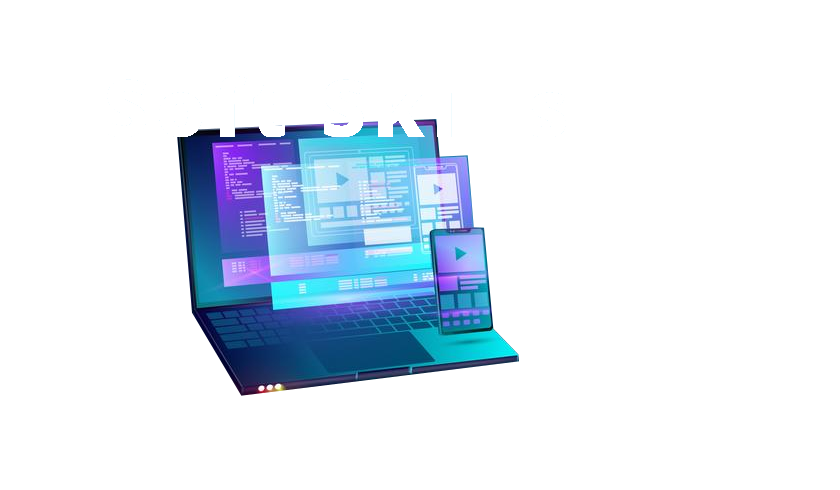
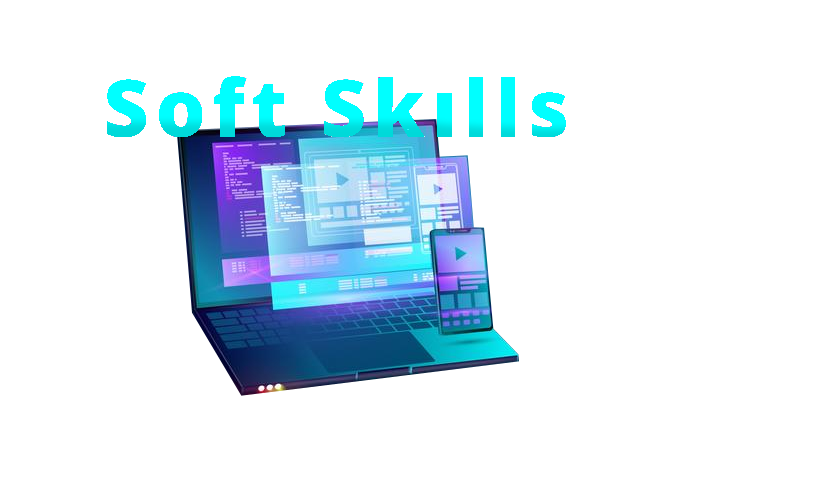
2.0

Changed region(s): [[0.3714, 0.1531, 0.681, 0.2755], [0.1238, 0.1531, 0.3405, 0.2755]]

diff --git a/index.html b/index.html
@@ -24,7 +24,8 @@
         <nav class="navbar navbar-expand-md navbar-light fixed-top navbar-transparente">
             <div class="container container-nav">
                 <a href="index.html" class="navbar-brand">
-                   <img src="img/MichaelLogo.png" width="200">
+                <i class="fa-solid fa-laptop-code color"></i> <span class="logo">Michael Ayres</span>   
+                   
                 </a>
 
             <button class="navbar-toggler" data-toggle="collapse" data-target="#nav-principal">
@@ -79,16 +80,16 @@
     <section id="QuemSou" class="d-flex"><!--Quem sou-->
       <div class="container align-self-center">
         <div class="row">
-          <div class="col-md-6">
-            <img src="img/PerfilAzulRoxoo.jpg" class="img-fluid img-perfil mt-5 mb-5 ml-5 mr-5" width="250">
+          <div class="col-md-4 mb-4 mt-4 foto-perfil">
+            <img src="img/PerfilAzulRoxoo.jpg" class="img-fluid img-perfil " width="250">
 
           </div>
 
-          <div class="col-md-6 mt-5 mb-5">
+          <div class="col-md-8 align-self-center">
             <p class="p-perfil">
               Estudando <span class="texto-perfil">Ánalise e Desenvolvimento de Sistemas</span> no centro universitário <span class="texto-perfil">UNINTER</span>.
               
-              Desenvolvedor <span class="texto-perfil">Front-End</span> iniciante, atuo no desenvolvimento web com conhecimento em HTML, CSS, Javascript, PHP, Git, MySQL, e logo mais ReactJS.</p>
+              Desenvolvedor <span class="texto-perfil">Front-End</span> iniciante, atuo no desenvolvimento web com conhecimento em  <span class="linguagens"> HTML</span>, <span class="linguagens">CSS</span>, <span class="linguagens">JavaScript</span>, <span class="linguagens">PHP</span>, <span class="linguagens">Git</span>, <span class="linguagens">MySQL</span> e logo mais <span class="linguagens">ReactJS</span>.
 
           </div>
 
@@ -102,38 +103,38 @@
       <div class="container text-center">
         <div class="row mt-5">
           <div class="col-md-12 ml-5">
-             <img src="img/softSkills2.png"   class="img-fluid">
+             <img src="img/softSkills.png"   class="img-fluid img-skills">
           </div>
         </div><!--Primeira Row-->
             <div class="row mb-5">
 
                   <div class="col-md-4 d-flex justify-content-around mt-5">
-                    <img src="img/html.png" class="img-fluid ml-2" width="70">
+                    <img src="img/html.png" class="img-fluid ml-2 programas" width="70">
     
-                    <img src="img/css-3.png" class="img-fluid ml-2 " width="70">
+                    <img src="img/css-3.png" class="img-fluid ml-2 programas " width="70">
     
-                    <img src="img/js.png" class="img-fluid ml-2 " width="70">
+                    <img src="img/js.png" class="img-fluid ml-2 programas " width="70">
     
                     
                   </div>
     
                   <div class="col-md-4 d-flex justify-content-around mt-5">
     
-                    <img src="img/bootstrap.png" class="img-fluid ml-2 " width="70">
+                    <img src="img/bootstrap.png" class="img-fluid ml-2 programas" width="70">
     
-                    <img src="img/mysql.png" class="img-fluid ml-2 " width="70">
+                    <img src="img/mysql.png" class="img-fluid ml-2 programas" width="70">
     
-                    <img src="img/atom.png" class="img-fluid ml-2 " width="70">
+                    <img src="img/atom.png" class="img-fluid ml-2 programas" width="70">
     
                   </div>
     
                   <div class="col-md-4 d-flex justify-content-around mt-5">
     
-                    <img src="img/github.png" class="img-fluid ml-2 " width="70">
+                    <img src="img/github.png" class="img-fluid ml-2 programas" width="70">
     
-                    <img src="img/php.png" class="img-fluid ml-2 " width="70">
+                    <img src="img/php.png" class="img-fluid ml-2 programas" width="70">
     
-                    <img src="img/nodejs.png" class="img-fluid ml-2 " width="70">
+                    <img src="img/nodejs.png" class="img-fluid ml-2 programas" width="70">
     
                   </div>
     
@@ -153,40 +154,40 @@
     </section>
 
     <section id="projetos" class="d-flex">
-      <div class="container text-center">
-        <h1 class="mt-5 mb-5 mr-5 ml-5">Projetos</h1>
+      <div class="container ">
+        <h1 class="mt-5 mb-5 text-center">Projetos</h1>
 
       
-          <div class="row ml-5 mb-5">
+          <div class="row ">
 
-                <div class="col-md-4">
+                <div class="col-md-4 text-center mb-4">
 
-                  <div class="bloco-projeto1 estilo-bloco meus-projetos mb-5">
+                  <div class=" estilo-bloco">
                     <h2>Site Finans - Responsivo</h2>
                     <h3 class="text-center">Tecnologia: HTML, CSS, Bootstrap</h3>
-                    <a href="https://github.com/MichaelAyress/Projeto-Parallax-Motos" class="btn btn-sm btn-custom btn-roxo"  target="_blank"><i class="fa-brands fa-github-alt"></i> acessar código</a>
+                    <a href="https://github.com/MichaelAyress/Projeto-Parallax-Motos" class="btn btn-sm btn-custom btn-projetos"  target="_blank"><i class="fa-brands fa-github-alt"></i> acessar código</a>
                   </div>
 
                 </div>
 
-                <div class="col-md-4">
+                <div class="col-md-4 text-center mb-4">
 
-                  <div class="bloco-projeto1 estilo-bloco meus-projetos mb-5 ">
+                  <div class=" estilo-bloco">
                     <h2>Site Spotify - Clone</h2>
                     <h3 class="text-center">Tecnologia: HTML, CSS, Bootstrap</h3>
-                    <a href="https://github.com/MichaelAyress/Projeto-Parallax-Motos" class="btn btn-sm btn-custom btn-roxo"  target="_blank"><i class="fa-brands fa-github-alt"></i> acessar código</a>
+                    <a href="https://github.com/MichaelAyress/Projeto-Parallax-Motos" class="btn btn-sm btn-custom btn-projetos "  target="_blank"><i class="fa-brands fa-github-alt"></i> acessar código</a>
                   </div>
 
 
 
                 </div>
 
-                <div class="col-md-4 ">
+                <div class="col-md-4 text-center mb-4  ">
 
-                  <div class="bloco-projeto1 estilo-bloco meus-projetos">
+                  <div class=" estilo-bloco">
                     <h2>Site Parallax - Gsx-1000</h2>
                     <h3 class="text-center">Tecnologia: HTML, CSS, Bootstrap</h3>
-                    <a href="https://github.com/MichaelAyress/Projeto-Parallax-Motos" class="btn btn-sm btn-custom btn-roxo"  target="_blank"><i class="fa-brands fa-github-alt"></i> acessar código</a>
+                    <a href="https://github.com/MichaelAyress/Projeto-Parallax-Motos" class="btn btn-sm btn-custom btn-projetos"  target="_blank"><i class="fa-brands fa-github-alt"></i> acessar código</a>
                
                   </div>
 
@@ -198,15 +199,15 @@
 
     </section>
 
-    <section id="contato" class="d-flex">
+    <section id="contato">
 
-      <div class="container text-center">
+      <div class="container align-self-center">
         <h1 class="mt-5 mb-5 text-center">Contato</h1>
 
       
-          <div class="row ml-5 mb-5">
+          <div class="row mb-5  ">
 
-                <div class="col-md-6 d-flex justify-content-around mt-5">
+                <div class="col-md-6 d-flex justify-content-around mb-4 mt-5">
                   <a href="https://www.linkedin.com/in/michael-ayres-da-silva-642606219/" target="_blank"><img src="img/linkedin.png" alt="linkedin" width="50" height="50"></a>
                   <a href="https://github.com/MichaelAyress"  target="_blank"><img src="img/github.png" alt="github" width="50" height="50"></a>
                   <a href="mailto:michaelayresdev@gmail.com"  target="_blank"><img src="img/gmail.png" alt="gmail" width="50" height="50"></a>

diff --git a/css/estilo.css b/css/estilo.css
@@ -19,6 +19,17 @@ body {
 
 /* Barra de navegação 
 ------------------------*/
+.color  {
+    
+    color:  #C004D9
+}
+
+.logo {
+    font-weight: 700;
+    letter-spacing: -.05em;
+    color: rgba(255, 255, 255, 0.76);
+}
+
 nav.navbar-transparente {
     padding: 15px 0px;
     background: rgba(0,0,0,0.6);
@@ -79,6 +90,10 @@ nav.navbar-transparente {
     padding: 5px 0 0 5px;
 }
 
+
+.linguagens {
+    color: #04ADBF;
+}
 /* Skills  
 ----------------*/
 
@@ -91,26 +106,22 @@ nav.navbar-transparente {
 
 
 
-.bloco-projeto1 {
-    width: 15%;
-    height: 250px;
-    
 
-}
 
 .estilo-bloco {
     background:  linear-gradient(50deg, #04BFBF, #C004D9);;
     border-radius:10px;
     box-shadow:  5px 5px 20px  rgba(0, 0, 0, 0.534);
-}
-
-
-.meus-projetos {  
     width: 70%;
-    height: 250px;
+    height: 95%;
+    margin-left: 55px;
+    margin-bottom: 20px;
 }
 
-.meus-projetos h2 {
+
+
+
+.estilo-bloco h2 {
     color: #fff;
     font-size: 1.1em;
     text-align: center;
@@ -120,12 +131,21 @@ nav.navbar-transparente {
     
 }
 
-.meus-projetos h3 {
+.estilo-bloco h3 {
     color: rgba(255, 255, 255, 0.726);
     text-align: left;
     font-size: 1.1em;
     
     
+}
+
+.btn-projetos {
+    background: #01B5C4;
+}
+
+.btn-projetos:hover {
+    background: #42F1F9;
+    color: white;
 }
 
 
@@ -151,11 +171,23 @@ h1 {
 }
 
 #projetos h1 {
-    font-size: 4em;
+    font-size: 3em;
     font-weight: 900;
     letter-spacing: -.05em;
     margin-bottom: 50px;
-    color:#03588C;
+    color: #00FFFF;
+    text-shadow:  1px 1px 1px  rgba(0, 0, 0, 0.2);
+}
+
+#contato h1 {
+    font-size: 3em;
+    font-weight: 900;
+    letter-spacing: -.05em;
+    margin-bottom: 50px;
+    color: white;
+    text-shadow:  1px 1px 1px  rgba(0, 0, 0, 0.2);
+    
+
 }
 
 
@@ -172,6 +204,7 @@ h1 {
 
 .nome {
     color:#C004D9;
+    
 }
 
 
@@ -190,7 +223,7 @@ h1 {
 
 
 
-@media (min-width: 280px) and (max-width: 360.98px) {
+@media (min-width: 280px) and (max-width: 300.98px) {
 
     h1 {
         font-size: 2em;
@@ -204,6 +237,19 @@ h1 {
         margin-right: 1em;
         margin-left: 0.2em;
     }
+
+    .btn-projetos {
+        font-size: 0.7em;
+        margin: 20px;
+        
+    }
+
+    .estilo-bloco {
+        width: 190px;
+        height: 250px;
+        margin-left: 35px;
+        
+    }
 }
 
 @media (min-width: 361px) and (max-width: 540.98px) {
@@ -211,6 +257,85 @@ h1 {
     .container-nav {
         margin-right: 1em;
         margin-left: 1em;
+    }
+
+    
+
+}
+
+@media (min-width: 280px) and (max-width: 359.98px) {
+
+    .p-perfil {
+        font-size: 1.2em;
+    }
+
+    .programas {
+        width: 50px;
+    }
+    
+
+    #projetos h1 {
+        font-size: 3em;
+    }
+    
+    
+
+   
+}
+
+@media (min-width: 360px) and (max-width: 411.98px) {
+
+    .foto-perfil {
+        margin-left: 40px;
+    }
+
+}
+
+
+@media (min-width: 412px) and (max-width: 539.98px) {
+
+    .foto-perfil {
+        margin-left: 65px;
+    }
+
+}
+
+@media (min-width: 540px) and (max-width: 759.98px) {
+
+    .foto-perfil {
+        margin-left: 125px;
+    }
+
+    .p-perfil {
+        font-size: 1.2em;
+    }
+
+}
+
+@media (min-width: 760px) and (max-width: 767.98px) {
+
+    .foto-perfil {
+        margin-left: 125px;
+    }
+
+    .p-perfil {
+        font-size: 1.2em;
+    }
+
+}
+
+
+@media (min-width: 768px) and (max-width: 991px) {
+
+    .p-perfil {
+        font-size: 1.2em;
+    }
+
+    .estilo-bloco {
+        width: 100%;
+        height: 250px;
+        margin-left: 0px;
+        
     }
 
 }
